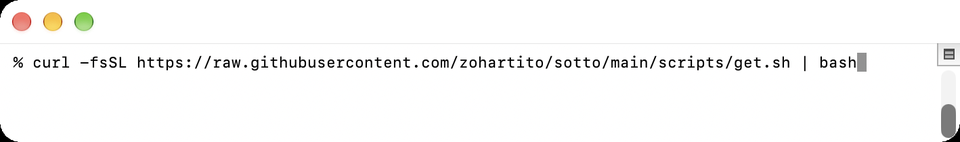
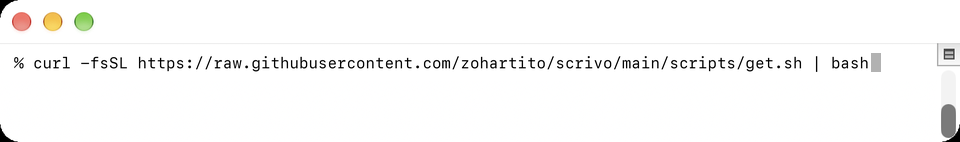
Docs and pictures up to date for sharing: Scrivo everywhere, current steps
What a new user reads and sees, checked against the code on main:
- Pictures: the step-1 Terminal shot showed the old zohartito/sotto URL;
  it now shows .../zohartito/scrivo/... (redrawn at the original's size
  and pitch, window frame untouched). The demo GIF is re-cut from the same
  real recording with the same script and moments; only the TextEdit
  document's title changes, "Sotto Notes" to "Scrivo Notes".
- Step 2: both one-line installers open Scrivo themselves (#47), so it no
  longer says to open it by hand.
- Python 3.12: python.org's last 3.12 with a macOS installer is 3.12.10
  (3.12.11+ are source-only); README and get.sh point there, Homebrew first.
- A Sotto copy cannot update itself to Scrivo: the README section now says
  to paste the install line again (it contradicted itself).
- Restart and Quit finish a dictation in progress; --idle-release 0 is the
  default (dropped); the Speech engine row lists Whisper, Parakeet and
  Nemotron; Settings lists Speed.
- Update/uninstall commands name ~/scrivo, and uninstall no longer talks
  about LaunchAgents; the installer's last lines drop Launchpad and print
  the full update command.
- Data tables list capture-spool/ (raw audio until saved), glossary.txt,
  stats.json and logs/ (Windows: capture-spool\).
- docs/windows-alpha.md leads with the one-line installer; the release
  notes doc is 0.1.1-alpha with what is new; the validation doc no longer
[…]

Changed region(s): [[0.0, 0.3662, 0.9375, 0.507]]

diff --git a/README.md b/README.md
@@ -1,7 +1,8 @@
 # Scrivo
 
 **Hold a key, talk, and your words appear wherever you're typing.**
-Free and open source. It runs on your Mac, so your voice never leaves it.
+Free and open source. It runs on your own computer (a Mac, or a Windows PC in
+alpha), so your voice never leaves it.
 
 <p align="center">
   <img src="docs/images/demo.gif" width="720" alt="A Mac with an empty TextEdit page. A small dark pill at the top of the screen fills with words as they are spoken: Everything I say shows up right where my cursor is. Then the sentence appears on the page.">
@@ -32,12 +33,15 @@ message instead, do what the message says and paste the line again:
 
 - *First install Apple's command line tools*: paste `xcode-select --install`,
   press Return, and click **Install** in the window that opens.
-- *Scrivo needs Python 3.12*: download the macOS installer for Python 3.12 from
-  [python.org](https://www.python.org/downloads/macos/) and open it.
+- *Scrivo needs Python 3.12*: if you use Homebrew, paste `brew install python@3.12`.
+  Otherwise download the macOS installer for
+  [Python 3.12.10](https://www.python.org/downloads/release/python-31210/) and
+  open it (later 3.12 releases have no installer).
 
-### 2. Open Scrivo and say yes to two questions
+### 2. Say yes to two questions
 
-Open **Scrivo** like any app (⌘ Space, type `Scrivo`, Return). It asks for two things:
+When Terminal says **Done**, Scrivo opens by itself. (Later, open it like any
+app: ⌘ Space, type `Scrivo`, Return.) It asks for two things:
 
 - **Accessibility**, so it can hear your key and type for you. Click
   **Open System Settings** and switch **Scrivo** on. (Newer macOS calls this
@@ -139,34 +143,28 @@ never your words) is `logs/scrivo.log` in the data folder.
 
 - Update: **Check for Updates…** in Scrivo's menu lists what is new and updates
   a git clone on request, then restarts. It contacts GitHub only when you click
-  it. From a terminal: `scripts/install-mac.sh --update`. Your settings stay.
-  When Scrivo was started from a terminal (not as Scrivo.app), Check for Updates
-  only lists what is new and shows that command for this folder: quit Scrivo,
-  then run it.
-- Remove: `scripts/install-mac.sh --uninstall` (removes the app and its login
-  item; your data folder stays until you delete it).
+  it. From a terminal: `~/scrivo/scripts/install-mac.sh --update` (or paste the
+  install line again). Your settings stay. When Scrivo was started from a
+  terminal (not as Scrivo.app), Check for Updates only lists what is new and
+  shows that command for this folder: quit Scrivo, then run it.
+- Remove: `~/scrivo/scripts/install-mac.sh --uninstall` (removes the app and its
+  login item; your data folder stays until you delete it).
 
 ### Scrivo was called Sotto
 
 If you installed it as Sotto, nothing moves: the folder stays `~/sotto`, and your
 History, dictionary, settings and models stay in the same data folder (the data
-folders keep the old name, `sotto-alpha`). Choose
-**Check for Updates…** → **Update Now** in Sotto's menu (or paste the install
-line again). The update builds `Scrivo.app`; Sotto restarts once, opens Scrivo
-and quits, and Scrivo then removes the old `Sotto.app` and moves **Start when I
-log in** over. Scrivo is a new app to macOS, so it asks for the Microphone and
+folders keep the old name, `sotto-alpha`). A Sotto copy cannot update itself to
+Scrivo (Update Now stops with an error, or the app does not come back): quit
+Sotto if it is still running, then paste the install line again (on Windows,
+the `irm` line). If that run stops with "can't open file … sotto.py", paste it
+once more. It updates the same folder, keeps your data and builds `Scrivo.app`;
+Scrivo then removes the old `Sotto.app` and moves **Start Scrivo when I log in**
+over. Scrivo is a new app to macOS, so it asks for the Microphone and
 Accessibility again: allow **Scrivo** (the old **Sotto** entries in System
 Settings can be removed with −). Copies cloned from `github.com/zohartito/sotto`
 keep updating (GitHub forwards the old address); the install line also points
 them at the new one.
-
-Later, `sotto.py` became `scrivo.py`. A copy from before mid-October 2026 can
-no longer update itself (Update Now stops with an error, or Scrivo does not
-come back): quit it if it is still running, then paste the install line again
-(on Windows, the `irm` line). If that run also stops with "can't open file
-… sotto.py", paste it once more. It finishes the update in the same folder and
-keeps your data. macOS treats the rebuilt `Scrivo.app` as new and asks for the
-Microphone and Accessibility once more.
 The `SOTTO_*` variables below still work under their old names (`SCRIVO_*` wins
 when both are set), and the log moved from `logs/sotto.log` to `logs/scrivo.log`.
 A source archive now extracts to `scrivo-alpha/`: run its installer and it takes
@@ -188,18 +186,16 @@ venv-alpha/bin/python -m pip install pip==26.2.1
 venv-alpha/bin/python -m pip install -r requirements-alpha.txt
 venv-alpha/bin/python -m pip check
 
-# Keep alpha preferences, recordings and models separate from any installed Scrivo.
+# The same data folder Scrivo.app uses (History, settings and models).
 export SCRIVO_DATA_DIR="$HOME/Library/Application Support/sotto-alpha"
 export SCRIVO_HF_HOME="$SCRIVO_DATA_DIR/huggingface"
 
 venv-alpha/bin/python scrivo.py setup   # downloads the pinned models once
 venv-alpha/bin/python scrivo.py doctor
-venv-alpha/bin/python scrivo.py run --idle-release 0
+venv-alpha/bin/python scrivo.py run
 ```
 
-Nothing in these commands installs a LaunchAgent or enables adaptive
-routing/background learning. Re-export the two
-variables in each new terminal before launching. To use a different folder,
+Re-export the two variables in each new terminal before launching. To use a different folder,
 set absolute paths for both variables consistently.
 
 `doctor` requests microphone permission if undecided, checks Accessibility and
@@ -221,7 +217,7 @@ forbid network access entirely (for example, to confirm offline use):
 
 ```bash
 SCRIVO_OFFLINE=1 HF_HUB_OFFLINE=1 TRANSFORMERS_OFFLINE=1 \
-  venv-alpha/bin/python scrivo.py run --idle-release 0
+  venv-alpha/bin/python scrivo.py run
 ```
 
 Click a plain text field in Notes or TextEdit, hold **right Option** (or the key
@@ -245,9 +241,9 @@ fields are never typed or pasted into.
 | Lone short tap | Ignored |
 | Control–Option–D | Alternate hotkey: hold/release or tap to start/stop |
 | Menu → Start / Finish dictation | Hands-free controls without the key |
-| Menu → Settings… (⌘,) | Key, languages, engine, how text is inserted, dictionary, data folder |
+| Menu → Settings… (⌘,) | Key, languages, engine, speed (Accurate or Fast), how text is inserted, dictionary, data folder |
 | Menu → Language | Automatic (among your languages) or one language; saved locally |
-| Menu → Speech engine | Optional Nemotron or Whisper; restart while idle |
+| Menu → Speech engine | Whisper, Parakeet or Nemotron; switching restarts Scrivo while idle |
 | Menu → Dictionary | Your personal spellings (see below) |
 | Menu → Restart Scrivo | Restart this foreground process, retaining args/settings |
 | Menu → Quit, or Ctrl-C in terminal | Stop this foreground run and release microphone |
@@ -260,10 +256,11 @@ key: if another tool (or another Scrivo) already uses right Option or
 Control–Option–D, pick a different key in Settings. `--trigger` and `--hotkey`
 override Settings for a single run (`--hotkey ''` disables the alternate hotkey).
 `--no-overlay` hides both overlay and menu bar; use Ctrl-C to stop that run.
-With `--idle-release 0`, the mic starts for capture and stops on release; the
-speech model stays in memory. Hands-free intentionally keeps the mic active
-until stopped. **Restart** discards an unfinished capture; finish dictation
-before restarting or switching engines.
+The mic starts for each capture and stops on release; the speech model stays
+in memory. Hands-free intentionally keeps the mic active until stopped.
+**Restart** and **Quit** first finish a dictation in progress (it is
+transcribed and pasted; they wait up to 10 seconds). The engine can only be
+switched while no dictation is in progress.
 
 Recent items in the menu offer Copy, Retry, Save audio to Desktop, Delete,
 Correct Transcript and Clear history. Copy lets you recover text when an app
@@ -367,7 +364,9 @@ With the commands above, all Scrivo-managed alpha state lives under
 | --- | --- |
 | `history.jsonl`, `audio/`, `audio-raw/` | Transcripts/metadata, and the processed and raw-capture WAV audio of each item; ordinary history capped at 200 |
 | `language-mode`, `engine-mode`, `settings.json` | Saved language, engine and Settings choices |
-| `dictionary.txt` | Your personal spelling rules |
+| `capture-spool/` | Each finished recording's raw audio, only until its History item is saved (recovered into History after a crash) |
+| `dictionary.txt`, `glossary.txt` | Your personal spelling rules, and terms to help Whisper hear them |
+| `stats.json`, `logs/` | Word counts for **Your progress**, and Scrivo's log (counts and timings, never your words) |
 | `models/silero_vad.onnx` | Voice-detection model (Silero v6.2, MIT) used to drop silence phrases |
 | `learning/`, `adaptive-learning/` | Consented corrections and experimental state/receipts |
 | `huggingface/` | Whisper model cache (the exported `SCRIVO_HF_HOME`) |
@@ -386,12 +385,12 @@ error. The same applies to the checkout when you run the test suite.
 **Delete** removes a history item and revokes linked learning material.
 **Clear history** clears retained history and revokes the active local corpus.
 Models and preferences stay. See [storage and revocation details](docs/speech-learning.md).
-For a complete alpha uninstall, Quit/Ctrl-C first, then move **only your alpha
-folder** and this clone (including `venv-alpha`) to Trash in Finder. This
-removes alpha recordings/transcripts, learning data, settings and model caches.
-Never remove an existing installed Scrivo's folder/LaunchAgent as part of this
-alpha uninstall. To remove only alpha models, quit and move its `huggingface`
-and optional `nemotron` folders to Trash; they need downloading again later.
+To remove everything: quit Scrivo, run `~/scrivo/scripts/install-mac.sh
+--uninstall` (it removes the app and its login item), then move `~/scrivo` (or
+your own clone) and `~/Library/Application Support/sotto-alpha` to the Trash.
+That removes your recordings, transcripts, learning data, settings and models.
+To remove only the models, quit and move the `huggingface` and optional
+`nemotron` folders to the Trash; they download again when needed.
 
 Saved audio on Desktop, deliberately exported corpora, clipboard-manager
 history, text pasted into other apps, pip's package cache, backups and filesystem
@@ -431,8 +430,8 @@ Deletion cannot guarantee erasure from backups or SSD snapshots.
   Silero voice-detection model, which keeps those out of the text field (they
   stay in History). It never blocks real dictation, including whispers.
 - **Restart / engine switch fails:** use the reported error, Quit and rerun.
-  A source run does not need a LaunchAgent. Explicit `--profile`/`--model`
-  locks engine selection; omit them for menu switching.
+  Explicit `--profile`/`--model` locks engine selection; omit them for menu
+  switching.
 
 When reporting an issue, include OS/chip/Python version, command, permission
 results and a short reproduction. Redact usernames/paths. Do not attach private

diff --git a/docs/alpha-validation.md b/docs/alpha-validation.md
@@ -16,7 +16,7 @@ SCRIVO_DATA_DIR="$PWD/.alpha-state" SCRIVO_HF_HOME="$PWD/.alpha-cache" \
   SCRIVO_OFFLINE=1 HF_HUB_OFFLINE=1 TRANSFORMERS_OFFLINE=1 \
   venv-alpha/bin/python tests/gesture_check.py
 venv-alpha/bin/python -m compileall -q *.py scripts tests
-python3 benchmark.py tests/fixtures/benchmark_gate/manifest.jsonl --dry-run
+venv-alpha/bin/python benchmark.py tests/fixtures/benchmark_gate/manifest.jsonl --dry-run
 bash -n scripts/install-mac.sh scripts/rollout.sh
 plutil -lint launchd/*.plist
 venv-alpha/bin/python scripts/build_alpha_source.py /absolute/output/scrivo-alpha-source.tar.gz
@@ -31,7 +31,7 @@ otherwise. The sealed LaunchAgent integration needs Python 3.14 and is skipped
 on 3.12. Windows-only tests are skipped on macOS (and vice versa) with reasons.
 Windows steps are in [windows-alpha.md](windows-alpha.md).
 
-## Results (2026-10-01)
+## Results (2026-10-01 unless a row gives another date)
 
 macOS 27.2, M4 Max, CPython 3.12.14 unless noted.
 
@@ -53,12 +53,13 @@ macOS 27.2, M4 Max, CPython 3.12.14 unless noted.
 | Out-of-set language guard | In-set languages unchanged (two-language set); es/fr/de/ja written as spoken, not translated | Detection probabilities: in-set speech ≥ 0.989, other ≤ 0.112 |
 | Nemotron install | Pinned hashes enforced; tampered model, extra library and symlink refused | Checksum gate, synthetic decode only |
 | Windows (i9-11900K, RTX 4070 Ti SUPER) | 527 tests OK, 78 skipped from a fresh clone in the CPU environment (2026-10-09); 333 OK from a fresh archive in CPU and CUDA environments (2026-10-01); tray start/Quit exit 0 | See windows-alpha.md; no desktop session was used |
+| One-line install on fresh GitHub runners (2026-10-19, macOS 15 arm64 and Windows Server 2025) | `get.sh` and `get.ps1` from `main` finish in about 70 s each on the runners' fast network, model download included; the pinned Whisper model and Silero VAD are in place and checksum-verified; the Windows tray app starts and listens | What a new user's one-line install does on a clean machine; runners have no microphone, so no dictation |
 
 ## Not yet established
 
 - Real microphone → application dictation for this exact build on more than the
-  maintainer's Mac, and on Windows at all (a person pressing the key, speaking
-  and checking the text in Notes, TextEdit, Notepad, Word, browsers).
+  maintainer's Mac and one Windows 11 desktop (a person pressing the key,
+  speaking and checking the text in Notes, TextEdit, Notepad, Word, browsers).
 - Accuracy on real voices, accents, noisy rooms or whispering; every number
   above uses synthetic speech from system voices.
 - macOS 14–26, Apple Silicon Macs other than one M4 Max, Windows machines

diff --git a/docs/advanced-development.md b/docs/advanced-development.md
@@ -1,6 +1,6 @@
 # Advanced development (outside the source alpha)
 
-The public source alpha uses baseline Whisper or manually selected Nemotron.
+The public source alpha uses baseline Whisper, or manually selected Parakeet or Nemotron.
 Do not enable `--adaptive`, run learning preflight, provision teachers, or
 install a background learning worker for alpha testing. These notes describe
 experimental development workflows; they are not onboarding steps.
@@ -167,7 +167,7 @@ All models, snapshots, receipts, audio, and evaluation remain on this Mac;
 offline launch fails clearly if the preflighted local snapshot is absent. The
 initial candidate is `mlx-community/whisper-large-v3-turbo`; the first
 challenger is local `mlx-community/parakeet-tdt-0.6b-v2`. At zero gold Scrivo is
-simply collecting—there is no auto-fine-tuning. See [adaptive research](docs/english-adaptive-research.md).
+simply collecting—there is no auto-fine-tuning. See [adaptive research](english-adaptive-research.md).
 
 The production LaunchAgent keeps the Whisper model resident but not the
 microphone. With `--idle-release 0`, key-down starts `AVAudioEngine` and
@@ -223,7 +223,7 @@ conditioning is disabled, so applying it to longer recordings would give
 misleading coverage.
 
 For the full consent, storage, export, evaluation, and training guidance, see
-[Speech-quality learning](docs/speech-learning.md).
+[Speech-quality learning](speech-learning.md).
 
 ## Offline backup and restore
 

diff --git a/docs/windows-alpha.md b/docs/windows-alpha.md
@@ -41,8 +41,16 @@ beyond the synthetic-speech benchmark below.
 
 ## Install (recommended)
 
-In **PowerShell**, from a clone of the repository or the extracted source
-archive (see below):
+In **PowerShell**, paste one line. It downloads Scrivo into
+`%USERPROFILE%\scrivo`, runs the installer described below and starts Scrivo:
+
+```powershell
+irm https://raw.githubusercontent.com/zohartito/scrivo/main/scripts/get.ps1 | iex
+```
+
+It needs Git and 64-bit Python 3.13 and says how to install either if one is
+missing. From a clone of the repository or the extracted source archive (see
+below), run the installer itself:
 
 ```powershell
 powershell -ExecutionPolicy Bypass -File scripts\install-windows.ps1 -WhatIf   # show the plan only
@@ -367,6 +375,7 @@ Everything Scrivo writes lives in the data folder
 | Location in that folder | Contents |
 | --- | --- |
 | `history.jsonl`, `audio\`, `audio-raw\` | Transcripts/metadata and WAV audio (capped at 200) |
+| `capture-spool\` | Each finished recording's raw audio, only until its History item is saved (recovered into History after a crash) |
 | `dictionary.txt`, `settings.json`, `language-mode` | Your rules and preferences |
 | `learning\`, `adaptive-learning\` | Local learning and revocation bookkeeping (no worker runs on Windows) |
 | `scrivo.log` (+ `scrivo.log.1`) | Timings, devices, character counts — no transcript text |

diff --git a/docs/alpha-release-notes.md b/docs/alpha-release-notes.md
@@ -1,8 +1,26 @@
-# Scrivo 0.1.0-alpha
+# Scrivo 0.1.1-alpha
 
 Local, offline push-to-talk dictation for macOS and Windows: hold a key, speak,
 release, and the text lands at the cursor. Speech is transcribed on your
 computer; there is no account, cloud service or telemetry.
+
+## New in 0.1.1-alpha
+
+- **Sotto is now Scrivo.** Same app, new name. A Sotto install moves over when
+  you paste the install line again; your settings, History and models stay.
+- **Crash-safe dictation.** Each recording is saved at key-up, and one that
+  Scrivo could not transcribe (a crash, a force quit) comes back in History for
+  Retry. A failed transcription keeps its recording too.
+- **Quit, Restart and updates finish what you said first**, on the Mac and on
+  Windows.
+- **Text delivery.** Your clipboard is put back after each paste, results paste
+  in the order you spoke them, and "scratch that" only undoes Scrivo's own text.
+- **Safer install and update.** A failed update rolls back, and on a fresh Mac
+  the one-line installer opens Scrivo when it finishes.
+- **Windows** now matches the Mac on keeping failed captures and finishing
+  dictations on Restart, Quit and Update.
+
+Per-version notes: [GitHub Releases](https://github.com/zohartito/scrivo/releases).
 
 ## What is in it
 
